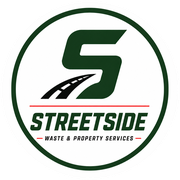
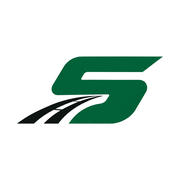
Add files via upload

diff --git a/index.html b/index.html
@@ -12,14 +12,20 @@
 <meta property="og:type" content="website" />
 <meta property="og:title" content="Streetside | Professional Bin Valet Service" />
 <meta property="og:description" content="We take your bins to the curb and bring them back. Trash day, handled. Serving Southeastern Columbus." />
-<meta property="og:image" content="/images/streetside-logo-circular.png" />
+<meta property="og:image" content="https://streetsideoh.com/images/og-image.png" />
+<meta property="og:image:width" content="1200" />
+<meta property="og:image:height" content="630" />
+<meta property="og:image:alt" content="Streetside Waste &amp; Property Services logo" />
 <meta property="og:url" content="https://streetsideoh.com/" />
 <meta property="og:locale" content="en_US" />
-<meta name="twitter:card" content="summary" />
+<meta name="twitter:card" content="summary_large_image" />
+<meta name="twitter:image" content="https://streetsideoh.com/images/og-image.png" />
 
+<link rel="icon" href="/favicon.ico" sizes="any" />
 <link rel="icon" type="image/png" sizes="32x32" href="/images/favicon-32x32.png" />
 <link rel="icon" type="image/png" sizes="16x16" href="/images/favicon-16x16.png" />
 <link rel="apple-touch-icon" href="/images/apple-touch-icon.png" />
+<link rel="manifest" href="/site.webmanifest" />
 
 <link rel="stylesheet" href="styles/tokens.css" />
 <link rel="stylesheet" href="styles/base.css" />
@@ -90,7 +96,7 @@ fbq('track', 'PageView');
 <header class="site-header">
   <div class="container site-header__inner">
     <a href="#top" class="brand-logo" aria-label="Streetside home">
-      <img src="images/streetside-logo-horizontal.png" alt="Streetside — Waste & Property Services" width="400" height="203" />
+      <img src="images/streetside-logo-horizontal.png" alt="Streetside — Waste & Property Services" width="1200" height="232" />
     </a>
 
     <nav class="primary-nav" aria-label="Primary">
@@ -490,7 +496,7 @@ fbq('track', 'PageView');
     <div class="site-footer__top">
       <div>
         <div class="footer-brand__logo">
-          <img src="images/streetside-logo-circular.png" alt="Streetside circular logo" width="160" height="160" />
+          <img src="images/streetside-logo-circular.png" alt="Streetside circular logo" width="512" height="512" />
           <span class="footer-brand__name">Streetside<small>Waste &amp; Property Services</small></span>
         </div>
         <p class="footer-brand__tagline">"We take it to the street. You don't have to."</p>

diff --git a/styles/components.css b/styles/components.css
@@ -97,13 +97,13 @@
 
 .brand-logo img {
   height: 100%;
-  max-height: 64px;
+  max-height: 56px; /* wide (about 5.2 : 1) lockup — keep it from crowding the nav */
   width: auto;
 }
 
 @media (max-width: 720px) {
   .brand-logo img {
-    max-height: 48px;
+    max-height: 40px;
   }
 }
 
@@ -119,6 +119,7 @@
 
 .primary-nav a {
   position: relative;
+  white-space: nowrap;
   font-family: var(--font-display);
   font-stretch: condensed;
   font-weight: 700;
@@ -197,9 +198,14 @@
 .nav-toggle[aria-expanded="true"] span::before { top: 0; transform: rotate(45deg); }
 .nav-toggle[aria-expanded="true"] span::after { top: 0; transform: rotate(-45deg); }
 
-@media (min-width: 960px) {
+/* The wide logo needs more room than the old one, so the full nav
+   appears from 1180px up; narrower screens use the menu button. */
+@media (min-width: 1180px) {
   .primary-nav { display: block; }
   .nav-toggle { display: none; }
+}
+@media (min-width: 1180px) and (max-width: 1320px) {
+  .primary-nav ul { gap: var(--space-5); }
 }
 
 /* Mobile menu panel */
@@ -238,7 +244,7 @@
 
 .mobile-menu .btn { margin-top: var(--space-4); }
 
-@media (min-width: 960px) {
+@media (min-width: 1180px) {
   .mobile-menu { display: none; }
 }
 

diff --git a/privacy-policy.html b/privacy-policy.html
@@ -41,7 +41,7 @@ fbq('track', 'PageView');
 <header class="site-header">
   <div class="container site-header__inner">
     <a href="index.html" class="brand-logo" aria-label="Streetside home">
-      <img src="images/streetside-logo-horizontal.png" alt="Streetside — Waste & Property Services" width="400" height="203" />
+      <img src="images/streetside-logo-horizontal.png" alt="Streetside — Waste & Property Services" width="1200" height="232" />
     </a>
     <nav class="primary-nav" aria-label="Primary">
       <ul>

diff --git a/terms.html b/terms.html
@@ -41,7 +41,7 @@ fbq('track', 'PageView');
 <header class="site-header">
   <div class="container site-header__inner">
     <a href="index.html" class="brand-logo" aria-label="Streetside home">
-      <img src="images/streetside-logo-horizontal.png" alt="Streetside — Waste & Property Services" width="400" height="203" />
+      <img src="images/streetside-logo-horizontal.png" alt="Streetside — Waste & Property Services" width="1200" height="232" />
     </a>
     <nav class="primary-nav" aria-label="Primary">
       <ul>

diff --git a/404.html b/404.html
@@ -62,7 +62,7 @@ fbq('track', 'PageView');
 <header class="site-header">
   <div class="container site-header__inner">
     <a href="/" class="brand-logo" aria-label="Streetside home">
-      <img src="images/streetside-logo-horizontal.png" alt="Streetside — Waste & Property Services" width="400" height="203" />
+      <img src="images/streetside-logo-horizontal.png" alt="Streetside — Waste & Property Services" width="1200" height="232" />
     </a>
     <nav class="primary-nav" aria-label="Primary">
       <ul>

diff --git a/admin.html b/admin.html
@@ -16,7 +16,7 @@
   .admin-wrap { max-width: 480px; margin: 0 auto; padding: var(--space-9) var(--space-5); }
   .admin-wrap.is-wide { max-width: 1200px; }
   .admin-logo { display: flex; justify-content: center; margin-bottom: var(--space-6); }
-  .admin-logo img { height: 40px; }
+  .admin-logo img { height: 44px; width: auto; }
   .admin-card {
     background: var(--white);
     border: 1px solid var(--color-border);

diff --git a/CHANGELOG.md b/CHANGELOG.md
@@ -4,7 +4,25 @@ Version numbers correspond to each delivered zip/package, starting
 at v25.0. Not tied to git commits — just a simple way to keep track
 of which round of changes you're looking at.
 
-## v44.1 — current
+## v44.3 — current
+
+- **New round badge** in the footer (512×512, transparent outside the circle).
+  Everything from v44.2 is included.
+
+## v44.2
+
+- **New logos.** The horizontal logo (header on every page, 404, admin login)
+  is your new dark-lettered version, trimmed and given a transparent
+  background. A white-lettered version is saved as
+  `images/streetside-logo-horizontal-light.png` for dark backgrounds (not
+  used yet). Because it is much wider than the old one, the full menu now
+  shows from 1180px wide and up; narrower screens use the menu button.
+- **New icon set** made from the stacked logo: browser-tab icons (`favicon.ico`,
+  16/32), phone home-screen icons (180, 192, 512) and a `site.webmanifest`.
+- **Better link previews:** a 1200×630 `images/og-image.png` (Facebook, text
+  messages, etc.) replaces the tiny round badge.
+
+## v44.1
 
 - **Founding spots meter now lives in the hero.** The orange "50% OFF" pill at
   the top of the main page is now a small card: the same pill, a progress bar
